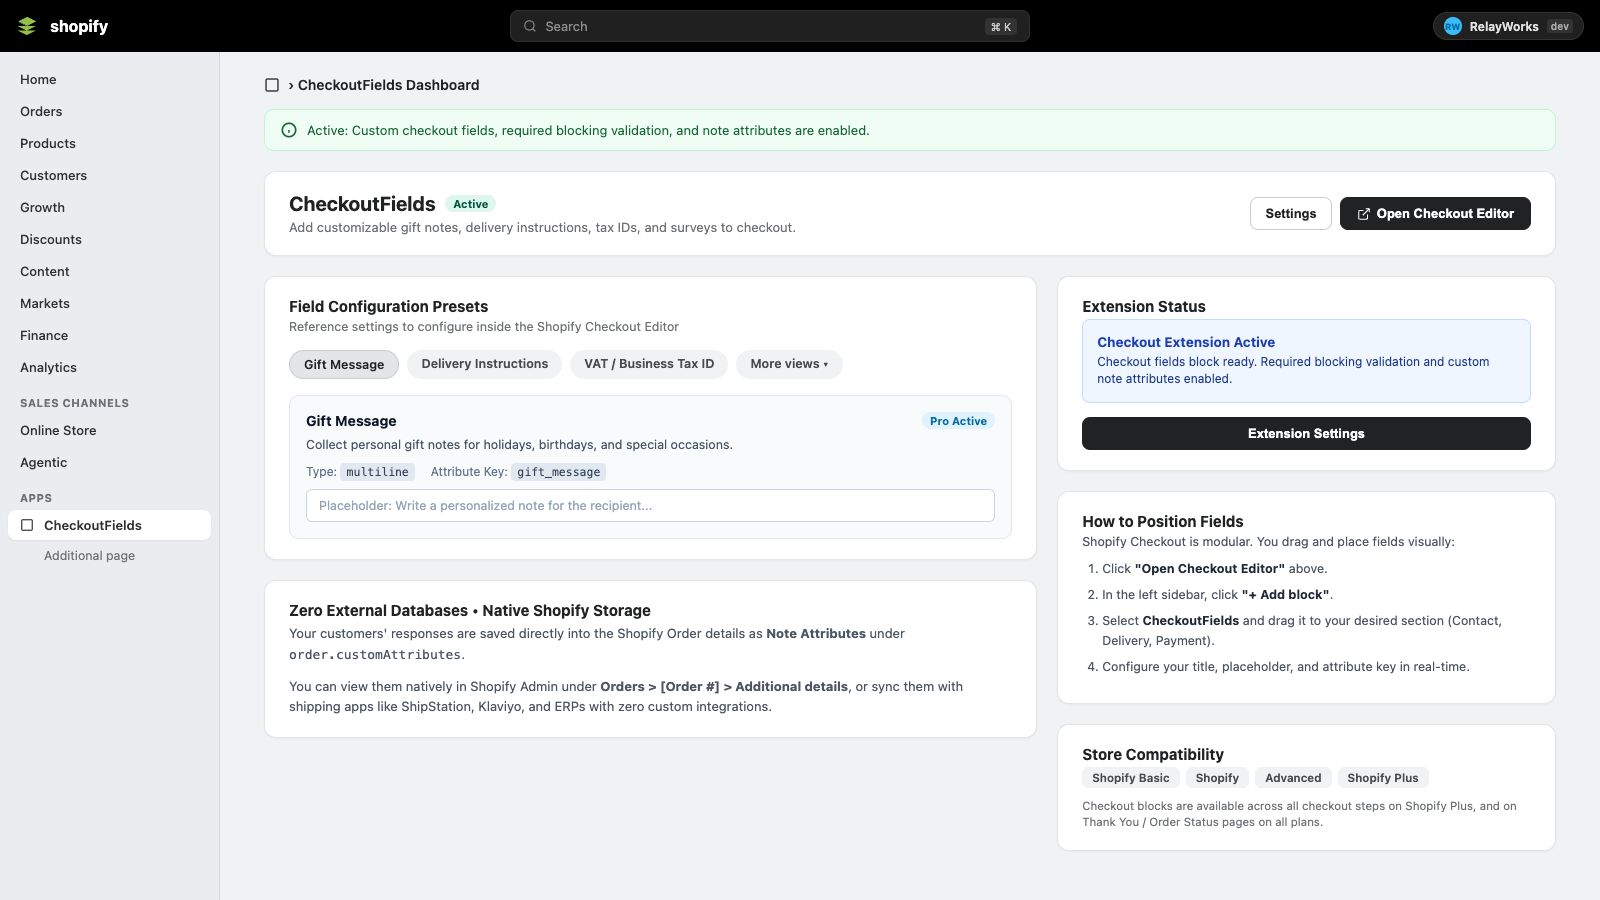
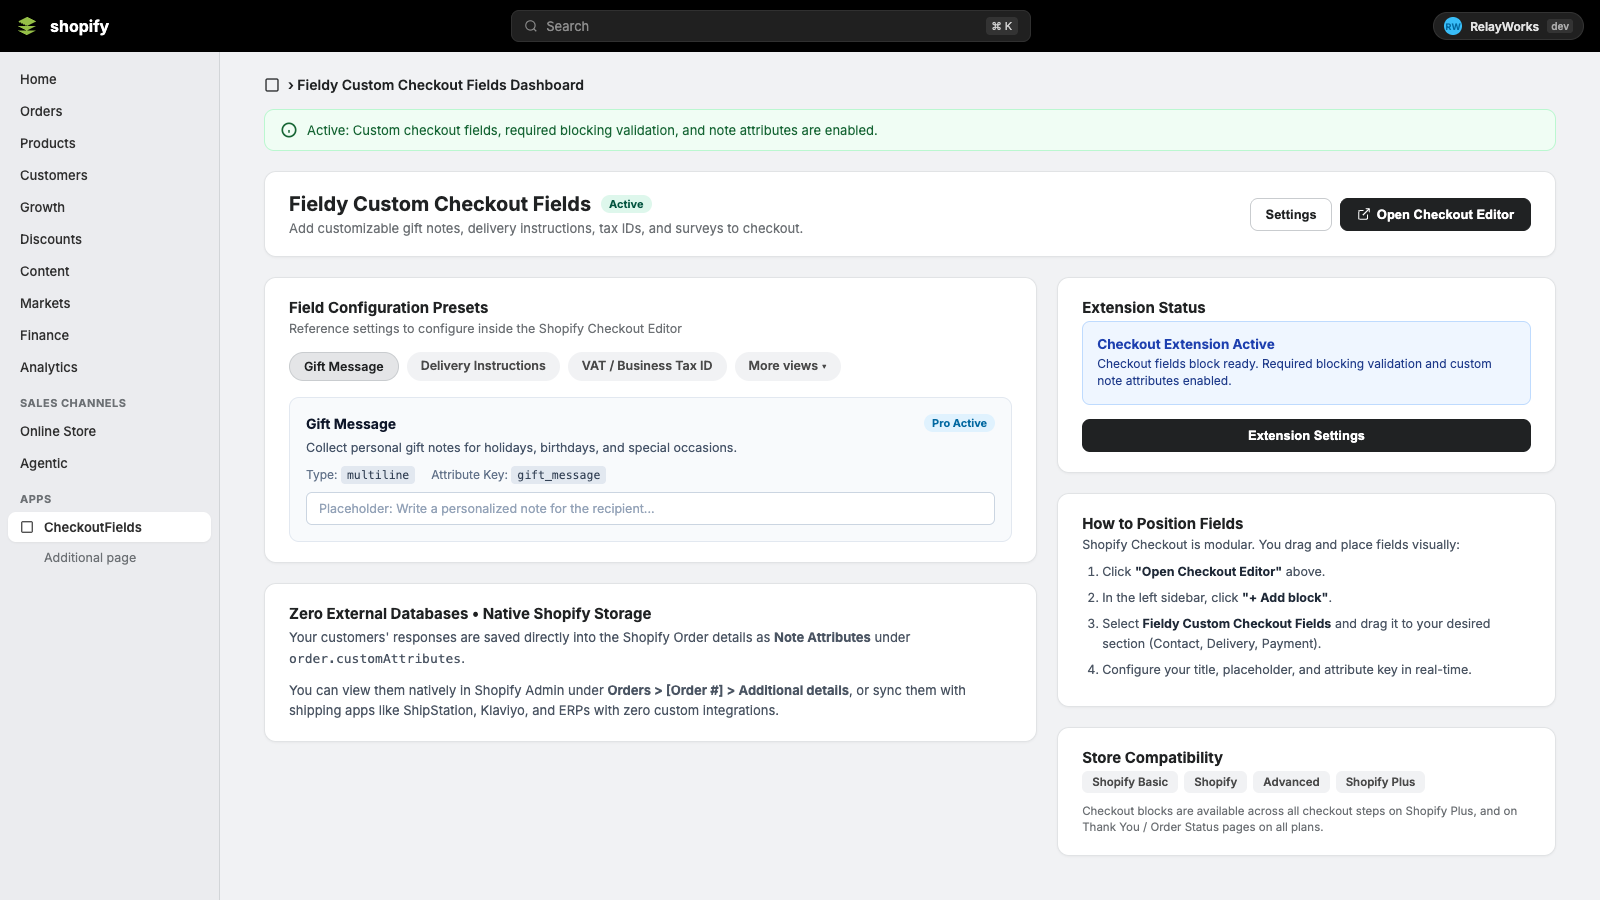
Update listing screenshots to Fieldy Custom Checkout Fields branding

diff --git a/assets/listing/templates/screenshot_1_dashboard.html b/assets/listing/templates/screenshot_1_dashboard.html
@@ -447,7 +447,7 @@
     <div class="workspace">
       <div class="app-breadcrumb">
         <svg width="16" height="16" viewBox="0 0 24 24" fill="none" stroke="#202223" stroke-width="2"><rect x="3" y="3" width="18" height="18" rx="2"/></svg>
-        › CheckoutFields Dashboard
+        › Fieldy Custom Checkout Fields Dashboard
       </div>
 
       <!-- Banner -->
@@ -460,7 +460,7 @@
       <div class="title-card">
         <div class="title-left">
           <div class="title-row">
-            <span class="app-h1">CheckoutFields</span>
+            <span class="app-h1">Fieldy Custom Checkout Fields</span>
             <span class="badge-tier">Active</span>
           </div>
           <span class="app-sub">Add customizable gift notes, delivery instructions, tax IDs, and surveys to checkout.</span>
@@ -539,7 +539,7 @@
             <ol class="step-ol">
               <li>Click <strong>"Open Checkout Editor"</strong> above.</li>
               <li>In the left sidebar, click <strong>"+ Add block"</strong>.</li>
-              <li>Select <strong>CheckoutFields</strong> and drag it to your desired section (Contact, Delivery, Payment).</li>
+              <li>Select <strong>Fieldy Custom Checkout Fields</strong> and drag it to your desired section (Contact, Delivery, Payment).</li>
               <li>Configure your title, placeholder, and attribute key in real-time.</li>
             </ol>
           </div>

diff --git a/assets/listing/templates/feature_banner.html b/assets/listing/templates/feature_banner.html
@@ -226,7 +226,7 @@
         <span class="badge-dot"></span>
         Shopify Checkout Extensibility
       </div>
-      <h1>CheckoutFields, <span>Built for Shopify Plus.</span></h1>
+      <h1>Fieldy, <span>Custom Checkout Fields.</span></h1>
       <p>
         Add customizable gift notes, delivery instructions, tax IDs, and surveys directly into your checkout — saved directly to Order Note Attributes.
       </p>
